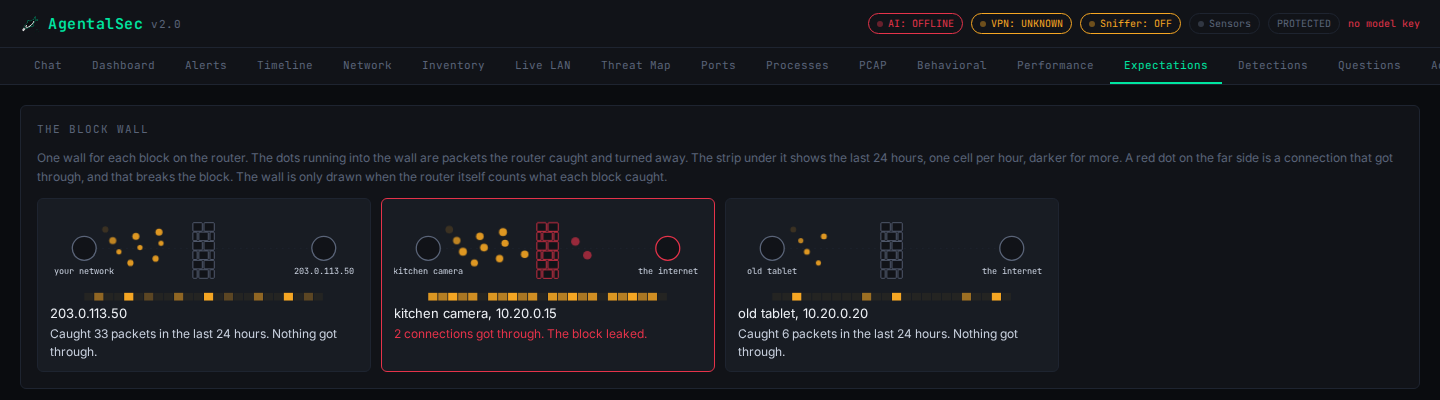
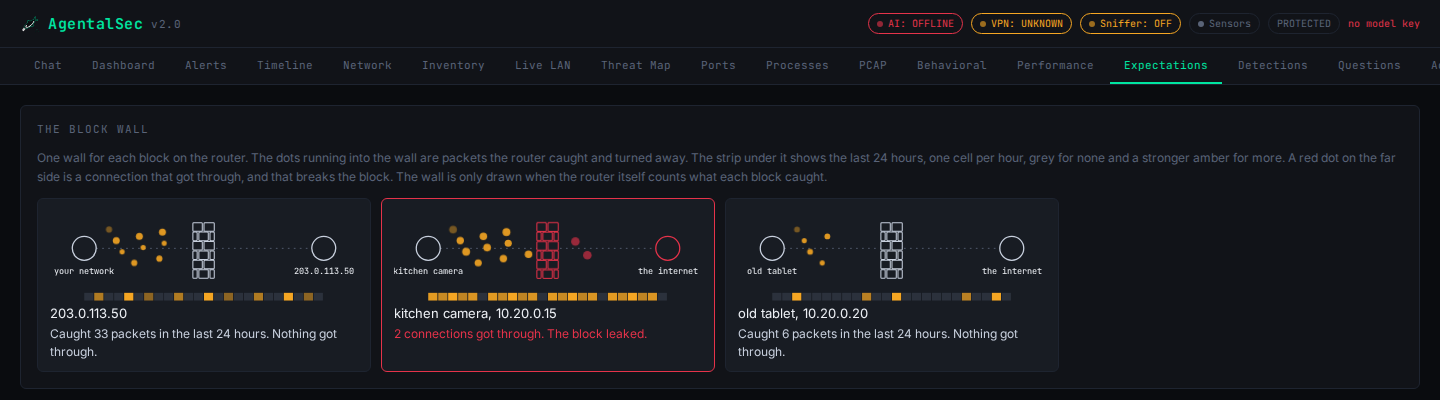
Block wall: brighter bricks, circles, labels and empty hours
- The wall, both ends, the line between them and the labels are drawn
  in lighter colours, so they read on the dark background.
- An hour with nothing caught is a grey cell instead of almost nothing;
  busier hours are a stronger amber.
- Screenshot in docs/TOUR.md updated.

diff --git a/ui/index.html b/ui/index.html
@@ -2634,8 +2634,9 @@
       <div class="card-title">The block wall</div>
       <div class="exp-note" style="margin-top:0;">
         One wall for each block on the router. The dots running into the wall are packets the router
-        caught and turned away. The strip under it shows the last 24 hours, one cell per hour, darker
-        for more. A red dot on the far side is a connection that got through, and that breaks the block.
+        caught and turned away. The strip under it shows the last 24 hours, one cell per hour, grey for
+        none and a stronger amber for more. A red dot on the far side is a connection that got through,
+        and that breaks the block.
         The wall is only drawn when the router itself counts what each block caught.
       </div>
       <div id="exp-walls" class="exp-walls"></div>
@@ -8653,13 +8654,13 @@ function _n(k, word) { return k + ' ' + word + (k === 1 ? '' : 's'); }
 function drawBlockWall(w) {
   const wallX = 180, nearX = 40, farX = 320, cy = 46;
   const broken = w.state === 'broken';
-  const edge = broken ? 'var(--red)' : 'var(--text-dim)';
+  const edge = broken ? 'var(--red)' : 'var(--text)';
   let bricks = '';
   for (let r = 0; r < 6; r++) {
     const y = 16 + r * 11;
     const row = r % 2 ? [[-13, 6], [-6, 12], [7, 6]] : [[-13, 12], [0, 13]];
     row.forEach(([dx, wd]) => {
-      bricks += `<rect x="${wallX + dx}" y="${y}" width="${wd - 1}" height="10" rx="1" fill="var(--bg2)" stroke="${edge}" stroke-width="1"/>`;
+      bricks += `<rect x="${wallX + dx}" y="${y}" width="${wd - 1}" height="10" rx="1" fill="var(--bg3)" stroke="${edge}" stroke-width="1.2"/>`;
     });
   }
   const hours = w.hours || [];
@@ -8681,16 +8682,17 @@ function drawBlockWall(w) {
   let strip = '';
   hours.forEach((n, i) => {
     const at = start ? new Date(start.getTime() + i * 3600e3).getHours() + ':00' : '';
-    strip += `<rect x="${(nearX + i * 280 / 24).toFixed(1)}" y="98" width="${(280 / 24 - 1).toFixed(1)}" height="9" fill="var(--amber)" opacity="${(n ? 0.2 + 0.8 * n / max : 0.06).toFixed(2)}">`
+    // An hour with nothing caught is a plain grey cell, still visible.
+    strip += `<rect x="${(nearX + i * 280 / 24).toFixed(1)}" y="98" width="${(280 / 24 - 1).toFixed(1)}" height="9" fill="${n ? 'var(--amber)' : 'var(--text-dim)'}" opacity="${(n ? 0.45 + 0.55 * n / max : 0.3).toFixed(2)}">`
            + `<title>${at}, ${n} packet${n === 1 ? '' : 's'} caught</title></rect>`;
   });
   const near = w.side === 'device' ? w.name : 'your network';
   const far = w.side === 'device' ? 'the internet' : w.name;
-  const label = (x, t) => `<text x="${x}" y="${cy + 30}" text-anchor="middle" fill="var(--text)" font-size="10" font-family="var(--mono)">${esc(String(t).slice(0, 18))}</text>`;
+  const label = (x, t) => `<text x="${x}" y="${cy + 30}" text-anchor="middle" fill="var(--text-hi)" font-size="10" font-family="var(--mono)">${esc(String(t).slice(0, 18))}</text>`;
   return `<svg viewBox="0 0 360 112" role="img" aria-label="Block on ${esc(w.subject)}">`
-    + `<line x1="${nearX}" y1="${cy}" x2="${farX}" y2="${cy}" stroke="var(--border)" stroke-width="1" stroke-dasharray="2 5"/>`
-    + `<circle cx="${nearX}" cy="${cy}" r="14" fill="var(--bg2)" stroke="var(--text-dim)" stroke-width="1.5"/>`
-    + `<circle cx="${farX}" cy="${cy}" r="14" fill="var(--bg2)" stroke="${broken ? 'var(--red)' : 'var(--text-dim)'}" stroke-width="1.5"/>`
+    + `<line x1="${nearX}" y1="${cy}" x2="${farX}" y2="${cy}" stroke="var(--text-dim)" stroke-width="1" stroke-dasharray="2 5"/>`
+    + `<circle cx="${nearX}" cy="${cy}" r="14" fill="var(--bg3)" stroke="var(--text)" stroke-width="1.5"/>`
+    + `<circle cx="${farX}" cy="${cy}" r="14" fill="var(--bg3)" stroke="${broken ? 'var(--red)' : 'var(--text)'}" stroke-width="1.5"/>`
     + dots + bricks + leaks + label(nearX, near) + label(farX, far) + strip + `</svg>`;
 }
 
